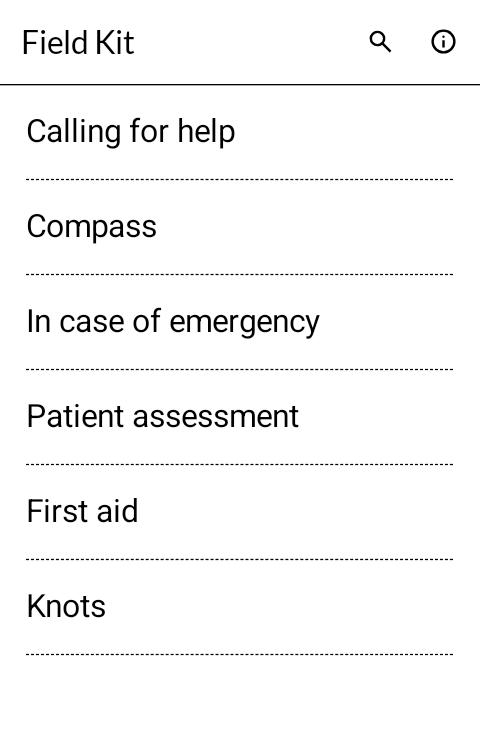
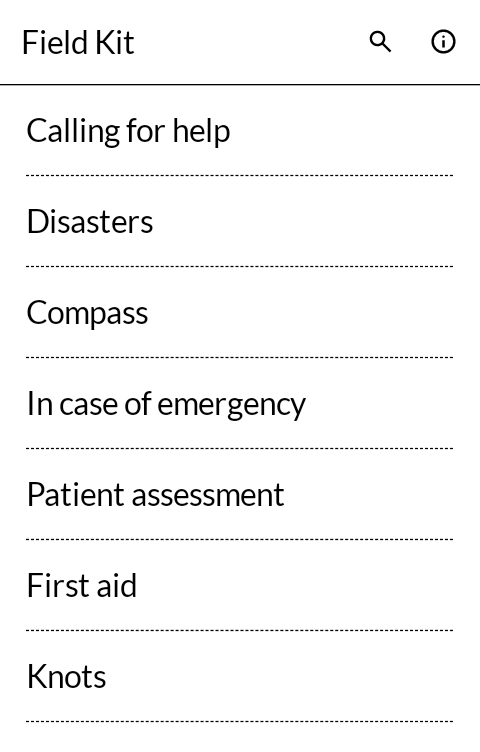
README: screenshots of v0.1.33, with fake data

diff --git a/README.md b/README.md
@@ -10,8 +10,8 @@ and it will install on any Android 12 device.
 
 | | |
 |---|---|
-| ![The home screen](screenshots/1-home.png) | ![Patient assessment at the primary stage](screenshots/2-assessment.png) |
-| ![A first-aid page, opening on what to do now](screenshots/3-aid.png) | ![A knot, step by step](screenshots/4-knot.png) |
+| ![The home screen](screenshots/1-home.png) | ![Disasters](screenshots/2-disasters.png) |
+| ![An earthquake: what to do now](screenshots/3-earthquake.png) | ![A knot, step by step](screenshots/4-knot.png) |
 
 ## What it does
 
